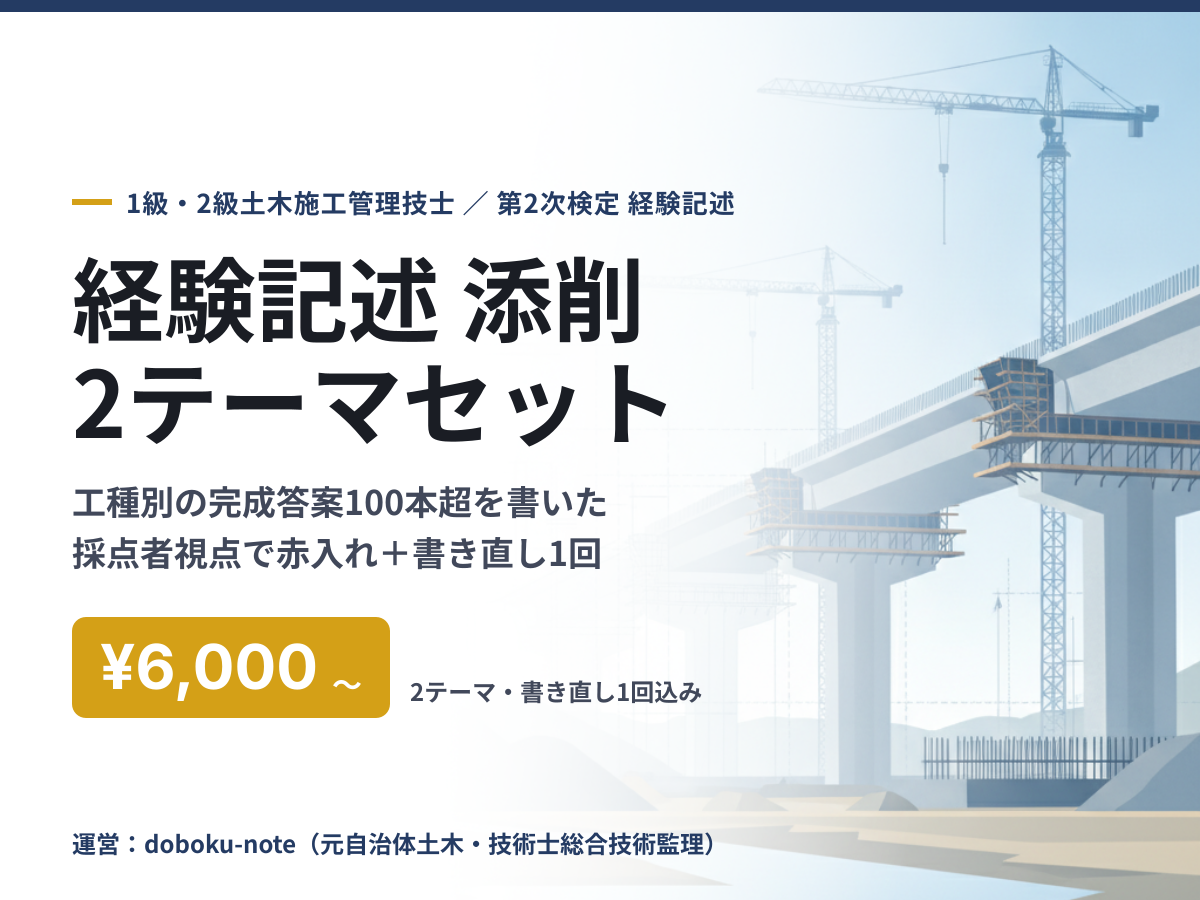
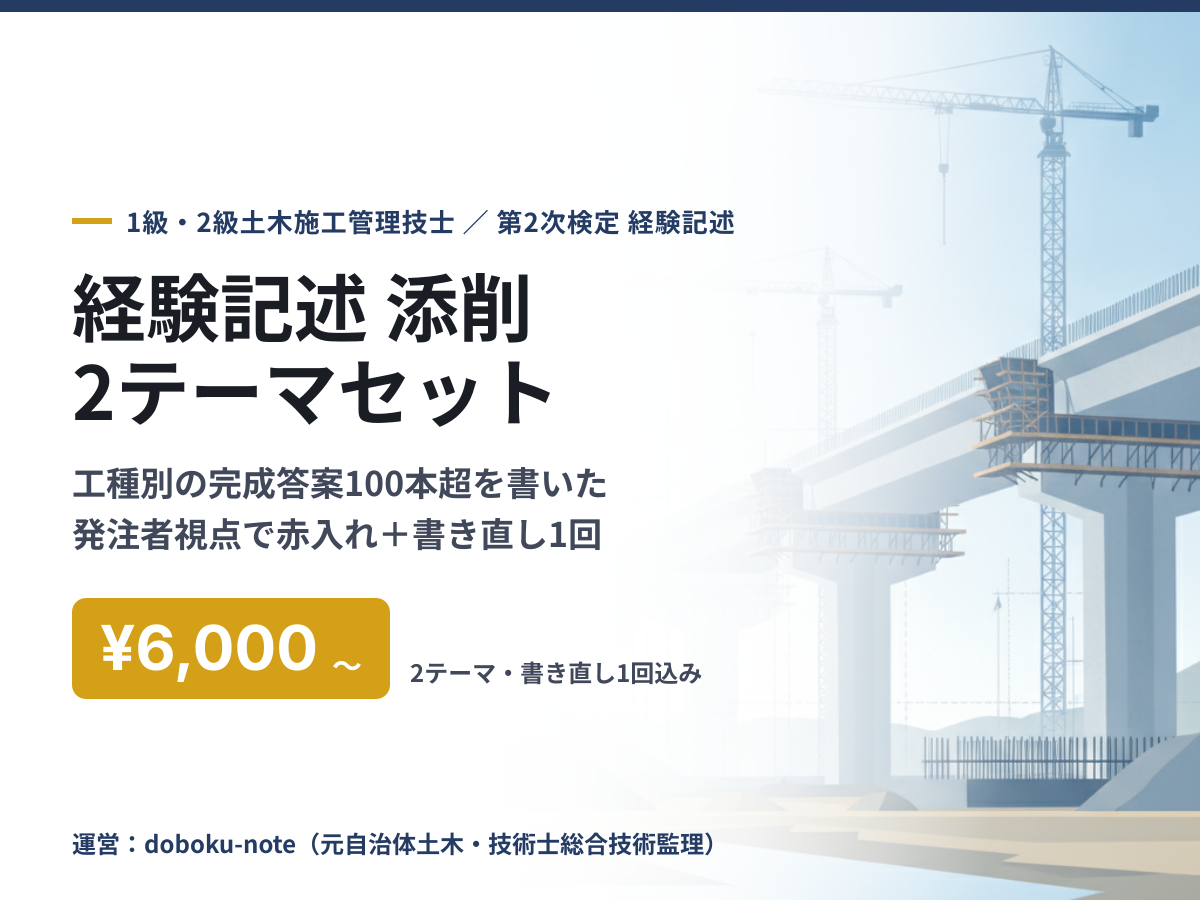
fix(coconala): 出品文面の「採点者」表記を発注者/読み手へ是正（SoT）
運営者は発注者＝提出書類を審査する側であって試験の採点者ではない
（2026-08-11 の全面訂正と同じ誤りが出品文面にだけ残っていた）。

当初「8箇所ほど」と報告したが、機械で数えたら実際は33箇所だった（過少報告の訂正）。
うち置換対象は29件（listings 24 / カタログ 2 / サムネ 3）。

置換規則:
- 発注者側＝採点する側 → 発注者側＝提出書類を審査する側
- 採点者視点のコメント/チェック → 読み手視点の…
- 採点者視点で赤入れ・採点者目線でチェック → 発注者視点/発注者目線
- 採点者の目で構成 → 書類を読む側の目で構成
- 採点者に伝わる答案 → 読み手に伝わる答案

**「※採点者・添削者ではありません」は保護**（正しく否定している文なので触らない・2件残置）。
src/lib/coconala-services.ts に残る2件は本訂正を説明するコメント。

字数制限は全件クリア（catchphrase 15-30 / body ≤1000 / purchaseNote ≤500）。
影響サムネ3枚（tensaku-set / sakusei / 1kyu-premium）を再生成。
check-coconala-wiring green（18件・listed 13）。

ライブ反映は次コミットで（listed 11件・paused 5件は非公開のため SoT のみ）。

diff --git a/src/lib/coconala-services.ts b/src/lib/coconala-services.ts
@@ -132,7 +132,7 @@ const SERVICES_RAW = {
     title: '土木施工管理の経験記述を発注者目線で添削します',
     shortTitle: '経験記述 添削（2テーマセット）',
     description:
-      '1級・2級土木施工管理技士 第2次検定の施工経験記述（問題1）を令和6年度からの新形式（2テーマ必答）に対応して添削。2テーマ分の赤入れ（NG→OK 書き換え案）＋6観点のチェックリスト判定表＋採点者視点のコメント＋書き直し1回を含む。ゼロからの答案作成は「答案作成」サービスで承ります（経験していない工事の答案作成＝捏造はお受けしません）。',
+      '1級・2級土木施工管理技士 第2次検定の施工経験記述（問題1）を令和6年度からの新形式（2テーマ必答）に対応して添削。2テーマ分の赤入れ（NG→OK 書き換え案）＋6観点のチェックリスト判定表＋読み手視点のコメント＋書き直し1回を含む。ゼロからの答案作成は「答案作成」サービスで承ります（経験していない工事の答案作成＝捏造はお受けしません）。',
     price: '¥6,000（2テーマセット・書き直し1回込み）',
     priceYen: 6000,
     examScope: ['civil-1', 'civil-2'],
@@ -413,7 +413,7 @@ const SERVICES_RAW = {
     title: '1級土木二次 教材一式と経験記述添削をします',
     shortTitle: '1級 二次 プレミアム（教材＋添削）',
     description:
-      '1級土木施工管理技士 第2次検定の対策PDF 18冊（出題分析・経験記述模範答案10冊・学科記述攻略5冊・予想模擬試験2冊／計115ページ）に、施工経験記述の添削（新形式2テーマ・赤入れ＋書き直し1回）を組み合わせたセット。教材で書き方を掴み、実際に書いた答案を元自治体土木（発注者＝採点する側）の目で赤入れします。購入後トークルームでPDFをお送りし、答案はヒアリングシートご記入後に添削します。経験していない工事の答案作成（捏造）はお受けしません。合格を保証するものではありません。',
+      '1級土木施工管理技士 第2次検定の対策PDF 18冊（出題分析・経験記述模範答案10冊・学科記述攻略5冊・予想模擬試験2冊／計115ページ）に、施工経験記述の添削（新形式2テーマ・赤入れ＋書き直し1回）を組み合わせたセット。教材で書き方を掴み、実際に書いた答案を元自治体土木（発注者＝提出書類を審査する側）の目で赤入れします。購入後トークルームでPDFをお送りし、答案はヒアリングシートご記入後に添削します。経験していない工事の答案作成（捏造）はお受けしません。合格を保証するものではありません。',
     price: '¥15,000（PDF18冊＋添削2テーマ・書き直し1回）',
     priceYen: 15000,
     examScope: ['civil-1'],
